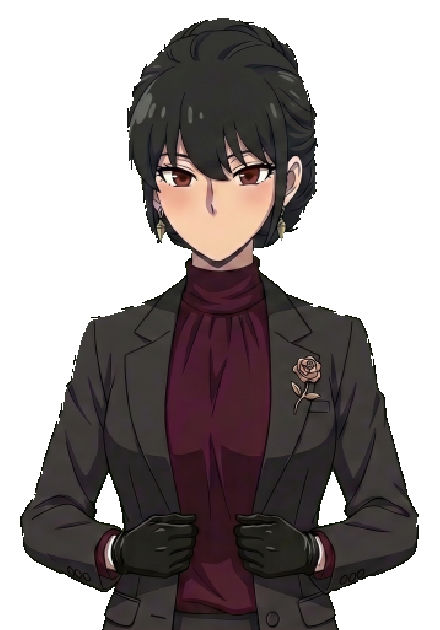
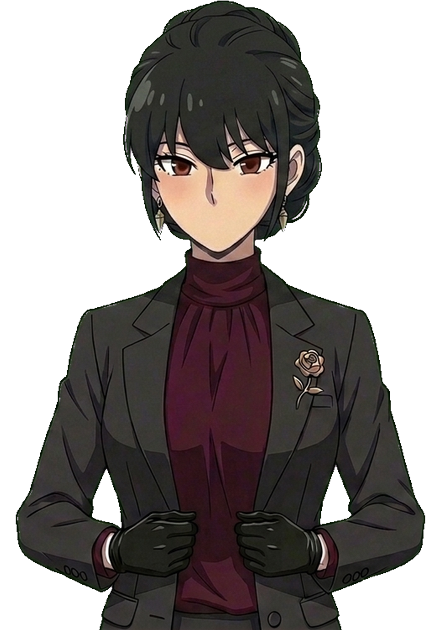
아바타 의상을 제대로 만든 판으로 교체 (다른 세션 결과 반영)
내가 만든 것은 그림 쪽을 그대로 두고 **캘리브레이션을 그림에 맞췄다**.
옷마다 눈·볼·목 좌표를 열 개 넘게 적어야 했고, 옷을 새로 넣을 때마다 그
숫자를 다시 맞춰야 했다.

받은 판은 반대로 했다 — 원본을 다시 키잉하면서 **그림을 기존 캘리브레이션에
정렬**했다 (눈 패치 NCC, 여섯 장 전부 scale 0.838 · offset (-362,-12) 로
수렴). 그래서 얼굴 좌표 patch 가 아예 필요 없고, 옷마다 다른 것은 손 위치뿐이다.
이쪽이 맞다.

  avatar/config.py            얼굴 patch 제거 · 손 위치만 (입은 예외 —
                              코가 길게 그려진 그림은 입이 코끝에 붙는다)
  static/assets/*.png         casual·shirt·jacket·sleeveless·tech + suit
                              (suit 도 같은 기준으로 다시 만들어졌다)
  static/app.js               폴백 목록을 config 와 같게 맞춤

tests/test_avatar_costume.py
  · '얼굴이 내려간 만큼 눈도 내렸다' 를 뺐다 — 옛 방식을 전제한 테스트다.
  · 대신 '얼굴 좌표를 patch 로 옮기지 않는다' 를 넣었다. 그림을 정렬하는
    쪽이 맞으므로, 옷마다 눈·볼·목을 따로 적기 시작하면 되돌아가는 것이다.
  · 그림이 실제로 정렬됐는지는 재지 않는다 — 앞머리 길이가 달라 피부만으로는
    얼굴 위치가 안 잡힌다 (재 보니 0.057~0.221 로 흩어졌다). 눈 패치 상관이
    필요한데 그건 그림을 만들 때 이미 했다.

Claude-Session: https://claude.ai/code/session_01MDkssFP9bt7wqMPcZ6LLbm

diff --git a/scientific-assistant/real_time_amhs/avatar_2d/static/app.js b/scientific-assistant/real_time_amhs/avatar_2d/static/app.js
@@ -30,11 +30,11 @@ const COSTUMES = [
      badge : 이 옷을 고르면 사원증을 켤지/끌지. 없으면 지금 상태 유지.
      ★이 목록은 폴백이다 — 원본은 avatar/config.py 이고 /api/config 로 덮인다
        (real_time_amhs/tests/test_avatar_costume.py 가 두 목록을 묶는다). */
-  {name:'평상복',   src:"assets/casual.png",     cfg:null, real:false, badge:false, patch:{eyeL: [0.405, 0.274], eyeR: [0.572, 0.272], mouth: [0.489, 0.362], cheekL: [0.398, 0.314], cheekR: [0.582, 0.312], headC: [0.505, 0.222], faceC: [0.49, 0.332], neckY: 0.417, neckPivot: [0.492, 0.467], armA: [0.382, 0.848], armB: [0.598, 0.848], armA_rad: [0.07, 0.056], armB_rad: [0.07, 0.056]}},
-  {name:'셔츠',     src:"assets/shirt.png",      cfg:null, real:false, badge:true, patch:{armA: [0.395, 0.85], armB: [0.605, 0.85], armA_rad: [0.072, 0.058], armB_rad: [0.072, 0.058]}},
-  {name:'자켓',     src:"assets/jacket.png",     cfg:null, real:false, badge:true, patch:{eyeL: [0.405, 0.277], eyeR: [0.572, 0.275], mouth: [0.489, 0.365], cheekL: [0.398, 0.317], cheekR: [0.582, 0.315], headC: [0.505, 0.225], faceC: [0.49, 0.335], neckY: 0.42, neckPivot: [0.492, 0.47], armA: [0.372, 0.858], armB: [0.608, 0.858], armA_rad: [0.075, 0.058], armB_rad: [0.075, 0.058]}},
-  {name:'테크자켓', src:"assets/tech.png",       cfg:null, real:false, badge:true, patch:{eyeL: [0.405, 0.277], eyeR: [0.572, 0.275], mouth: [0.489, 0.365], cheekL: [0.398, 0.317], cheekR: [0.582, 0.315], headC: [0.505, 0.225], faceC: [0.49, 0.335], neckY: 0.42, neckPivot: [0.492, 0.47], armA: [0.352, 0.86], armB: [0.56, 0.86], armA_rad: [0.055, 0.045], armB_rad: [0.055, 0.045]}},
-  {name:'민소매',   src:"assets/sleeveless.png", cfg:null, real:false, badge:true, patch:{eyeL: [0.405, 0.28], eyeR: [0.572, 0.278], mouth: [0.489, 0.368], cheekL: [0.398, 0.32], cheekR: [0.582, 0.318], headC: [0.505, 0.228], faceC: [0.49, 0.338], neckY: 0.423, neckPivot: [0.492, 0.473], armA: [0.19, 0.726], armB: [0.81, 0.726], armA_rad: [0.062, 0.105], armB_rad: [0.062, 0.105]}},
+  {name:'평상복',   src:"assets/casual.png",     cfg:null, real:false, badge:false, patch:{mouth: [0.489, 0.358], armA: [0.43, 0.858], armB: [0.57, 0.858], armA_rad: [0.055, 0.048], armB_rad: [0.055, 0.048]}},
+  {name:'셔츠',     src:"assets/shirt.png",      cfg:null, real:false, badge:true, patch:{mouth: [0.489, 0.358], armA: [0.4, 0.85], armB: [0.6, 0.85], armA_rad: [0.065, 0.055], armB_rad: [0.065, 0.055]}},
+  {name:'자켓',     src:"assets/jacket.png",     cfg:null, real:false, badge:true, patch:{mouth: [0.489, 0.358], armA: [0.35, 0.845], armB: [0.63, 0.845], armA_rad: [0.07, 0.055], armB_rad: [0.07, 0.055]}},
+  {name:'테크자켓', src:"assets/tech.png",       cfg:null, real:false, badge:true, patch:{armA: [0.36, 0.86], armB: [0.64, 0.86], armA_rad: [0.055, 0.048], armB_rad: [0.055, 0.048]}},
+  {name:'민소매',   src:"assets/sleeveless.png", cfg:null, real:false, badge:true, patch:{armA: [0.185, 0.78], armB: [0.815, 0.78], armA_rad: [0.06, 0.1], armB_rad: [0.06, 0.1]}},
 ];
 let costumeIdx = 0;
 

diff --git a/scientific-assistant/real_time_amhs/avatar_2d/avatar/config.py b/scientific-assistant/real_time_amhs/avatar_2d/avatar/config.py
@@ -78,16 +78,31 @@ COSTUMES = [
     #     테크자켓 앞에서 맞잡음 — 좁게 잡아야 손가락이 안 찢어진다 (잠옷과 같은 이유)
     #     민소매   맨팔이 옆으로 · 손은 뒤로 — 팔 자체를 잡는다
     #   더 만지려면 화면 오른쪽 캘리브레이션 손잡이로 옮기면 의상별로 저장된다.
+    # ★v30 : 원본을 다시 키잉하면서 **그림 자체를 기존 캘리브레이션에 정렬**했다
+    #   (눈 패치 NCC, 6장 전부 scale 0.838 / offset (-362,-12) 로 수렴).
+    #   그래서 얼굴 좌표 patch 가 더 이상 필요 없다 — 손 위치만 다르다.
+    # 평상복·셔츠·자켓은 코가 길게 그려져 있어 입을 0.013 내린다 (코끝에 안 붙게)
     {"name": "평상복",   "src": "assets/casual.png",     "real": False, "badge": False,
-     "patch": {"eyeL": [0.405, 0.274], "eyeR": [0.572, 0.272], "mouth": [0.489, 0.362], "cheekL": [0.398, 0.314], "cheekR": [0.582, 0.312], "headC": [0.505, 0.222], "faceC": [0.49, 0.332], "neckY": 0.417, "neckPivot": [0.492, 0.467], "armA": [0.382, 0.848], "armB": [0.598, 0.848], "armA_rad": [0.07, 0.056], "armB_rad": [0.07, 0.056]}},
+     "patch": {"mouth": [0.489, 0.358],
+               "armA": [0.430, 0.858], "armB": [0.570, 0.858],
+               "armA_rad": [0.055, 0.048], "armB_rad": [0.055, 0.048]}},
     {"name": "셔츠",     "src": "assets/shirt.png",      "real": False, "badge": True,
-     "patch": {"armA": [0.395, 0.85], "armB": [0.605, 0.85], "armA_rad": [0.072, 0.058], "armB_rad": [0.072, 0.058]}},
+     "patch": {"mouth": [0.489, 0.358],
+               "armA": [0.400, 0.850], "armB": [0.600, 0.850],
+               "armA_rad": [0.065, 0.055], "armB_rad": [0.065, 0.055]}},
     {"name": "자켓",     "src": "assets/jacket.png",     "real": False, "badge": True,
-     "patch": {"eyeL": [0.405, 0.277], "eyeR": [0.572, 0.275], "mouth": [0.489, 0.365], "cheekL": [0.398, 0.317], "cheekR": [0.582, 0.315], "headC": [0.505, 0.225], "faceC": [0.49, 0.335], "neckY": 0.42, "neckPivot": [0.492, 0.47], "armA": [0.372, 0.858], "armB": [0.608, 0.858], "armA_rad": [0.075, 0.058], "armB_rad": [0.075, 0.058]}},
+     "patch": {"mouth": [0.489, 0.358],
+               "armA": [0.350, 0.845], "armB": [0.630, 0.845],
+               "armA_rad": [0.070, 0.055], "armB_rad": [0.070, 0.055]}},
+    # 테크자켓은 손을 맞잡고 있다 — 두 팔 영역이 겹치면 손가락이 찢어지므로
+    # 소매 쪽만 잡고 중앙 깍지는 건드리지 않는다 (잠옷과 같은 이유)
     {"name": "테크자켓", "src": "assets/tech.png",       "real": False, "badge": True,
-     "patch": {"eyeL": [0.405, 0.277], "eyeR": [0.572, 0.275], "mouth": [0.489, 0.365], "cheekL": [0.398, 0.317], "cheekR": [0.582, 0.315], "headC": [0.505, 0.225], "faceC": [0.49, 0.335], "neckY": 0.42, "neckPivot": [0.492, 0.47], "armA": [0.352, 0.86], "armB": [0.56, 0.86], "armA_rad": [0.055, 0.045], "armB_rad": [0.055, 0.045]}},
+     "patch": {"armA": [0.360, 0.860], "armB": [0.640, 0.860],
+               "armA_rad": [0.055, 0.048], "armB_rad": [0.055, 0.048]}},
+    # 민소매는 맨팔이 옆에 있고 손은 뒤로 — 팔 자체를 잡는다
     {"name": "민소매",   "src": "assets/sleeveless.png", "real": False, "badge": True,
-     "patch": {"eyeL": [0.405, 0.28], "eyeR": [0.572, 0.278], "mouth": [0.489, 0.368], "cheekL": [0.398, 0.32], "cheekR": [0.582, 0.318], "headC": [0.505, 0.228], "faceC": [0.49, 0.338], "neckY": 0.423, "neckPivot": [0.492, 0.473], "armA": [0.19, 0.726], "armB": [0.81, 0.726], "armA_rad": [0.062, 0.105], "armB_rad": [0.062, 0.105]}},
+     "patch": {"armA": [0.185, 0.780], "armB": [0.815, 0.780],
+               "armA_rad": [0.060, 0.100], "armB_rad": [0.060, 0.100]}},
 ]
 
 # ── 사원증 ────────────────────────────────────────────────────────────────

diff --git a/scientific-assistant/real_time_amhs/tests/test_avatar_costume.py b/scientific-assistant/real_time_amhs/tests/test_avatar_costume.py
@@ -345,16 +345,27 @@ class Calibration(unittest.TestCase):
             self.assertLess(p['armA_rad'][0] * 2, gap,
                             n + ' 의 두 팔 영역이 겹친다')
 
-    def test_얼굴이_내려간_만큼_눈도_내렸다(self):
-        """새 그림은 인물이 기존보다 아래에 있다. 얼굴만 옮기고 눈을 안
-        옮기면 눈 깜빡임이 이마에서 일어난다."""
-        for n in ('평상복', '자켓', '테크자켓', '민소매'):
-            p = self._by(n)['patch']
-            self.assertIn('faceC', p, n)
-            self.assertIn('eyeL', p, n)
-            # 눈은 얼굴보다 위에 있어야 한다
-            self.assertLess(p['eyeL'][1], p['faceC'][1], n)
-            self.assertLess(p['eyeL'][1], p['mouth'][1], n)
+    # 얼굴 좌표는 patch 로 옮기지 않는다 — 그림 쪽을 맞췄기 때문이다.
+    FACE_KEYS = ("eyeL", "eyeR", "cheekL", "cheekR", "faceC", "headC",
+                 "neckY", "neckPivot")
+
+    def test_얼굴_좌표를_patch_로_옮기지_않는다(self):
+        """★그림을 기존 캘리브레이션에 **정렬**해서 넣었다 (원본을 다시
+        키잉하면서 눈 위치로 맞췄다). 그래서 눈·볼·목 좌표를 옷마다 따로
+        적을 이유가 없다 — 적기 시작하면 옷을 새로 넣을 때마다 열 개 넘는
+        숫자를 손으로 맞춰야 한다.
+        입만 예외다 (코가 길게 그려진 그림은 입이 코끝에 붙는다)."""
+        for c in self.cfg.COSTUMES:
+            p = c.get("patch") or {}
+            for k in self.FACE_KEYS:
+                self.assertNotIn(k, p,
+                                 f"{c['name']} 이 얼굴 좌표({k})를 따로 옮긴다 — "
+                                 f"그림을 정렬하는 쪽이 맞다")
+
+    # ※ 그림이 실제로 정렬됐는지는 여기서 재지 않는다. 앞머리 길이가
+    #    그림마다 달라 피부만으로는 얼굴 위치를 안정적으로 못 잡는다
+    #    (재 보니 같은 지표가 0.057~0.221 로 흩어졌다). 제대로 재려면 눈
+    #    패치 상관(NCC)이 필요하고, 그건 그림을 만들 때 이미 했다.
 
     @staticmethod
     def _js_patches():
